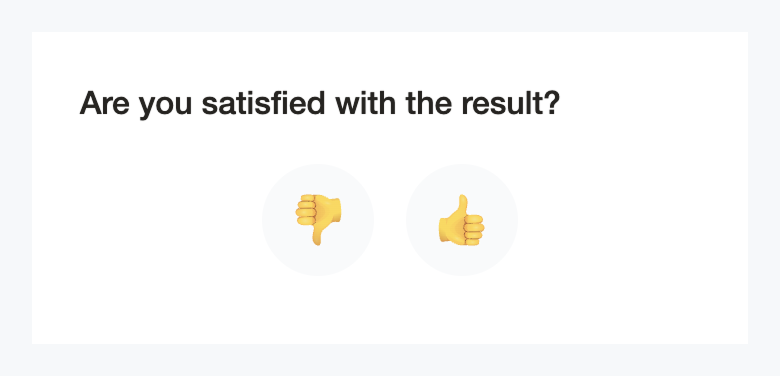
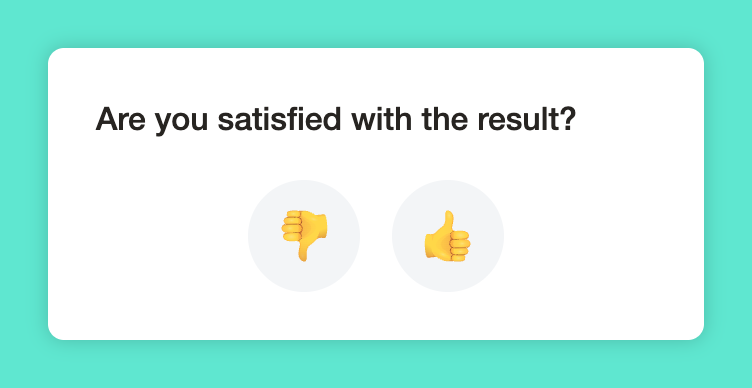
updated preview images in readme

diff --git a/src/surveys/NPS10Survey/NPS10Survey.stories.tsx b/src/surveys/NPS10Survey/NPS10Survey.stories.tsx
@@ -120,3 +120,55 @@ export const NumbersInteractions: Story = {
     await expect(canvas.getByText('Thank you for your feedback')).toBeInTheDocument();
   },
 };
+
+export const Preview: Story = {
+  args: {
+    ...commonProps
+  },
+  name: 'Preview docs',
+  parameters: {
+    layout: 'centered',
+  },
+  render: (args) => (
+    <div
+      style={{
+        display: 'flex',
+        padding: '1.5rem',
+        background: '#5fe7d0'
+      }}
+    >
+      <Surface>
+        <NPS10Survey {...args} />
+      </Surface>
+    </div>
+  )
+};
+
+export const PreviewMobile: Story = {
+  args: {
+    ...commonProps
+  },
+  globals: {
+    viewport: {
+      value: 'iphoneXR'
+    }
+  },
+  name: 'Preview docs (mobile)',
+  parameters: {
+    layout: 'centered',
+  },
+  render: (args) => (
+    <div
+      style={{
+        maxWidth: 360,
+        display: 'flex',
+        padding: '1.5rem',
+        background: '#5fe7d0'
+      }}
+    >
+      <Surface>
+        <NPS10Survey {...args} />
+      </Surface>
+    </div>
+  )
+};

diff --git a/src/surveys/CSAT5Survey/CSAT5Survey.stories.tsx b/src/surveys/CSAT5Survey/CSAT5Survey.stories.tsx
@@ -289,3 +289,51 @@ export const StarsInteractions: Story = {
     await expect(canvas.getByText('Thank you for your feedback')).toBeInTheDocument();
   },
 };
+
+export const Preview: Story = {
+  args: {
+    scaleStyle: 'emoji',
+    ...commonProps,
+  },
+  name: 'Preview docs',
+  parameters: {
+    layout: 'centered',
+  },
+  render: (args) => (
+    <div
+      style={{
+        display: 'flex',
+        padding: '1.5rem',
+        background: '#5fe7d0'
+      }}
+    >
+      <Surface>
+        <CSAT5Survey {...args} />
+      </Surface>
+    </div>
+  ),
+};
+
+export const PreviewPopup: Story = {
+  args: {
+    scaleStyle: 'stars',
+    ...commonProps,
+  },
+  name: 'Preview docs (popup)',
+  parameters: {
+    layout: 'centered',
+  },
+  render: (args) => (
+    <div
+      style={{
+        display: 'flex',
+        padding: '1.5rem',
+        background: '#5fe7d0'
+      }}
+    >
+      <Popup style={{ position: 'static' }}>
+        <CSAT5Survey {...args} />
+      </Popup>
+    </div>
+  ),
+};

diff --git a/src/components/Popup/Popup.tsx b/src/components/Popup/Popup.tsx
@@ -4,15 +4,13 @@ import { Surface } from '../Surface';
 
 import styles from './Popup.module.scss';
 
-export interface PopupProps {
+export interface PopupProps extends React.HTMLAttributes<HTMLDivElement> {
   animated?: boolean;
-  className?: string;
   classNames?: {
     base?: string;
     content?: string;
     close?: string;
   }
-  children?: React.ReactNode;
   placement?: 'topLeft' | 'topRight' | 'bottomRight' | 'bottomLeft';
   onClose?: () => void;
 }
@@ -23,10 +21,14 @@ export const Popup: React.FC<PopupProps> = ({
   classNames,
   children,
   placement = 'bottomRight',
-  onClose
+  onClose,
+  ...props
 }) => {
   return (
-    <div className={cn(styles.base, { [styles.animated]: animated }, styles[placement], className, classNames?.base)}>
+    <div
+      className={cn(styles.base, { [styles.animated]: animated }, styles[placement], className, classNames?.base)}
+      {...props}
+    >
       <Surface className={classNames?.content}>
         {children}
 

diff --git a/src/surveys/CSAT2Survey/CSAT2Survey.stories.tsx b/src/surveys/CSAT2Survey/CSAT2Survey.stories.tsx
@@ -223,3 +223,26 @@ export const ThumbsInteractions: Story = {
     await expect(canvas.getByText('Thank you for your feedback')).toBeInTheDocument();
   },
 };
+export const Preview: Story = {
+  args: {
+    scaleStyle: 'thumbs',
+    ...commonProps,
+  },
+  name: 'Preview docs',
+  parameters: {
+    layout: 'centered',
+  },
+  render: (args) => (
+    <div
+      style={{
+        display: 'flex',
+        padding: '1.5rem',
+        background: '#5fe7d0'
+      }}
+    >
+      <Surface>
+        <CSAT2Survey {...args} />
+      </Surface>
+    </div>
+  )
+};

diff --git a/src/surveys/CES7Survey/CES7Survey.stories.tsx b/src/surveys/CES7Survey/CES7Survey.stories.tsx
@@ -132,3 +132,26 @@ export const NumbersInteractions: Story = {
     await expect(canvas.getByText('Thank you for your feedback')).toBeInTheDocument();
   },
 };
+
+export const Preview: Story = {
+  args: {
+    ...commonProps
+  },
+  name: 'Preview docs',
+  parameters: {
+    layout: 'centered',
+  },
+  render: (args) => (
+    <div
+      style={{
+        display: 'flex',
+        padding: '1.5rem',
+        backgroundColor: '#5fe7d0'
+      }}
+    >
+      <Surface>
+        <CES7Survey {...args} />
+      </Surface>
+    </div>
+  )
+};

diff --git a/src/components/Surface/Surface.tsx b/src/components/Surface/Surface.tsx
@@ -2,16 +2,17 @@ import { cn } from '../../utils';
 
 import styles from './Surface.module.scss';
 
-export interface SurfaceProps {
-  className?: string;
-  children?: React.ReactNode;
-}
+export type SurfaceProps = React.HTMLAttributes<HTMLDivElement>
 
 export const Surface: React.FC<SurfaceProps> = ({
   className,
-  children
+  children,
+  ...props
 }) => (
-  <div className={cn(styles.base, className)}>
+  <div
+    className={cn(styles.base, className)}
+    {...props}
+  >
     {children}
   </div>
 );

diff --git a/README.md b/README.md
@@ -86,7 +86,7 @@ Surveys to ask users about their overall satisfaction.
 - "How would you rate your overall experience?"
 - "How satisfied are you with our customer support?"
 
-<img alt="CSAT5" src="docs/assets/csat5.png" width="400" />
+<img alt="CSAT5" src="docs/assets/csat5.png" width="416" />
 
 ```tsx
 import { CSAT5Survey } from 'react-feedback-surveys';
@@ -117,7 +117,7 @@ Surveys to ask users about specific features or flows.
 - "Did you find what you were looking for?"
 - "Are you satisfied with the checkout process?"
 
-<img alt="CSAT2" src="docs/assets/csat2.png" width="390" />
+<img alt="CSAT2" src="docs/assets/csat2.png" width="386" />
 
 ```tsx
 import { CSAT2Survey } from 'react-feedback-surveys';
@@ -146,9 +146,9 @@ Surveys to ask users if they'd recommend your product.
 - "On a scale of 0-10, would you recommend our service?"
 - "How likely are you to recommend this product to others?"
 
-<img alt="NPS10" src="docs/assets/nps10.png" width="600" />
+<img alt="NPS10" src="docs/assets/nps10.png" width="616" />
 
-<img alt="NPS10 mobile" src="docs/assets/nps10-mobile.png" width="362" />
+<img alt="NPS10 mobile" src="docs/assets/nps10-mobile.png" width="340" />
 
 ```tsx
 import { NPS10Survey } from 'react-feedback-surveys';
@@ -179,7 +179,7 @@ Surveys to ask users how easy it is to use your product.
 - "How much effort did it take to resolve your issue?"
 - "How easy was it to sign up for an account?"
 
-<img alt="CES7" src="docs/assets/ces7.png" width="420" />
+<img alt="CES7" src="docs/assets/ces7.png" width="436" />
 
 ```tsx
 import { CES7Survey } from 'react-feedback-surveys';
@@ -207,7 +207,7 @@ import 'react-feedback-surveys/index.css';
 
 The `<Popup>` component wraps survey widgets in a fixed overlay that slides in from the screen edge. It includes positioning, animations, and a close button for easy dismissal.
 
-<img alt="CSAT5 Popup" src="docs/assets/csat5-popup.png" width="400" />
+<img alt="CSAT5 Popup" src="docs/assets/csat5-popup.png" width="416" />
 
 #### Usage
 
